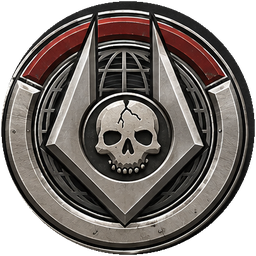
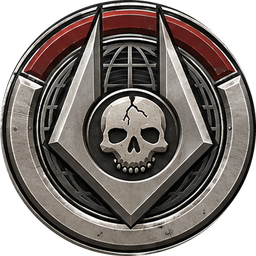
Recrop division emblems precisely so they aren't clipped
Claude-Session: https://claude.ai/code/session_01FPxW8sjExYByq8Hjg1f5Jc

diff --git a/sw.js b/sw.js
@@ -1,6 +1,6 @@
 /* Service worker: makes the game installable and playable offline.
    Bump VERSION whenever files change so players get the update. */
-const VERSION = 'c9-v4';
+const VERSION = 'c9-v5';
 const SHELL = [
   './',
   './index.html',
